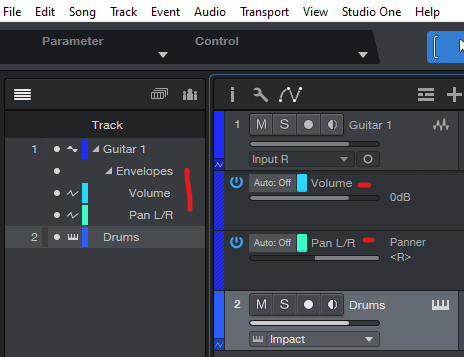
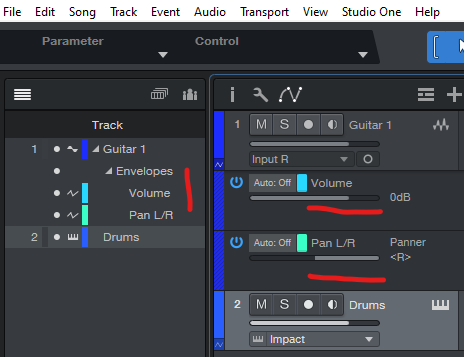
added open channel list

diff --git a/RecordingNotes.md b/RecordingNotes.md
@@ -19,22 +19,10 @@ a wholly effected copy of what goes in. Ideal candidates are compression, distor
 you want the effect to be applied to the whole signal. Here is a channel with an insert configured for a reverb:
 
 ## Track List
-
-Opening the track list:
-
-![Track List Button](https://github.com/objectivedynamics42/studio-one/blob/main/images/track-list-full-size.png?raw=true)
-
-
-The track list showing Volume and Pan automation tracks:
-
-![Track List Open](https://github.com/objectivedynamics42/studio-one/blob/main/images/track-list-open-full-size.png?raw=true)
-
-
+Supports interaction with automation tracks for e.g. volume and pan. See [opening and viewing the track list](#studio_one_opening_and_viewing_track_list)
 
 ## Channel List
-
-![Channel List](https://github.com/objectivedynamics42/studio-one/blob/main/images/channel-list-full-size.png?raw=true)
-
+[opening and viewing the channel list](#studio_one_opening_and_viewing_channel_list)
 
 # Programming a drum track
 
@@ -161,10 +149,33 @@ Check that you have the input (left or right/input 1 or input 2) selected for th
 
 ![A Studio One Channel](https://github.com/objectivedynamics42/studio-one/blob/main/images/channel-50-205.png?raw=true)
 
-## A Studio One Send with Compressor <a name="a_studio_one_send_with_compressor"></a>
+## A channel with a compressor as a send effect<a name="a_studio_one_send_with_compressor"></a>
 
 ![A Studio One Send with Compressor](https://github.com/objectivedynamics42/studio-one/blob/main/images/channel-with-send-fulls-size.png?raw=true)
 
-## A Studio One Insert with Reverb <a name="a_studio_one_insert_with_reverb"></a>
+## A channel with a Reverb as an insert <a name="a_studio_one_insert_with_reverb"></a>
 
 ![Insert with Reverb](https://github.com/objectivedynamics42/studio-one/blob/main/images/channel-with-insert-full-size.png?raw=true)
+
+
+## Opening and viewing the track list<a name="studio_one_opening_and_viewing_track_list"></a>
+
+Opening:
+
+![Track List Button](https://github.com/objectivedynamics42/studio-one/blob/main/images/track-list-full-size.png?raw=true)
+
+Viewing:
+
+![Track List Open](https://github.com/objectivedynamics42/studio-one/blob/main/images/track-list-open-full-size.png?raw=true)
+
+##  Opening and viewing the channel list<a name="studio_one_opening_and_viewing_channel_list"></a>
+
+Opening:
+
+![Channel List Button](https://github.com/objectivedynamics42/studio-one/blob/main/images/channel-list-full-size.png?raw=true)
+
+Viewing:
+
+![Channel List Open](https://github.com/objectivedynamics42/studio-one/blob/main/images/channel-list-open-full-size.png?raw=true)
+
+
